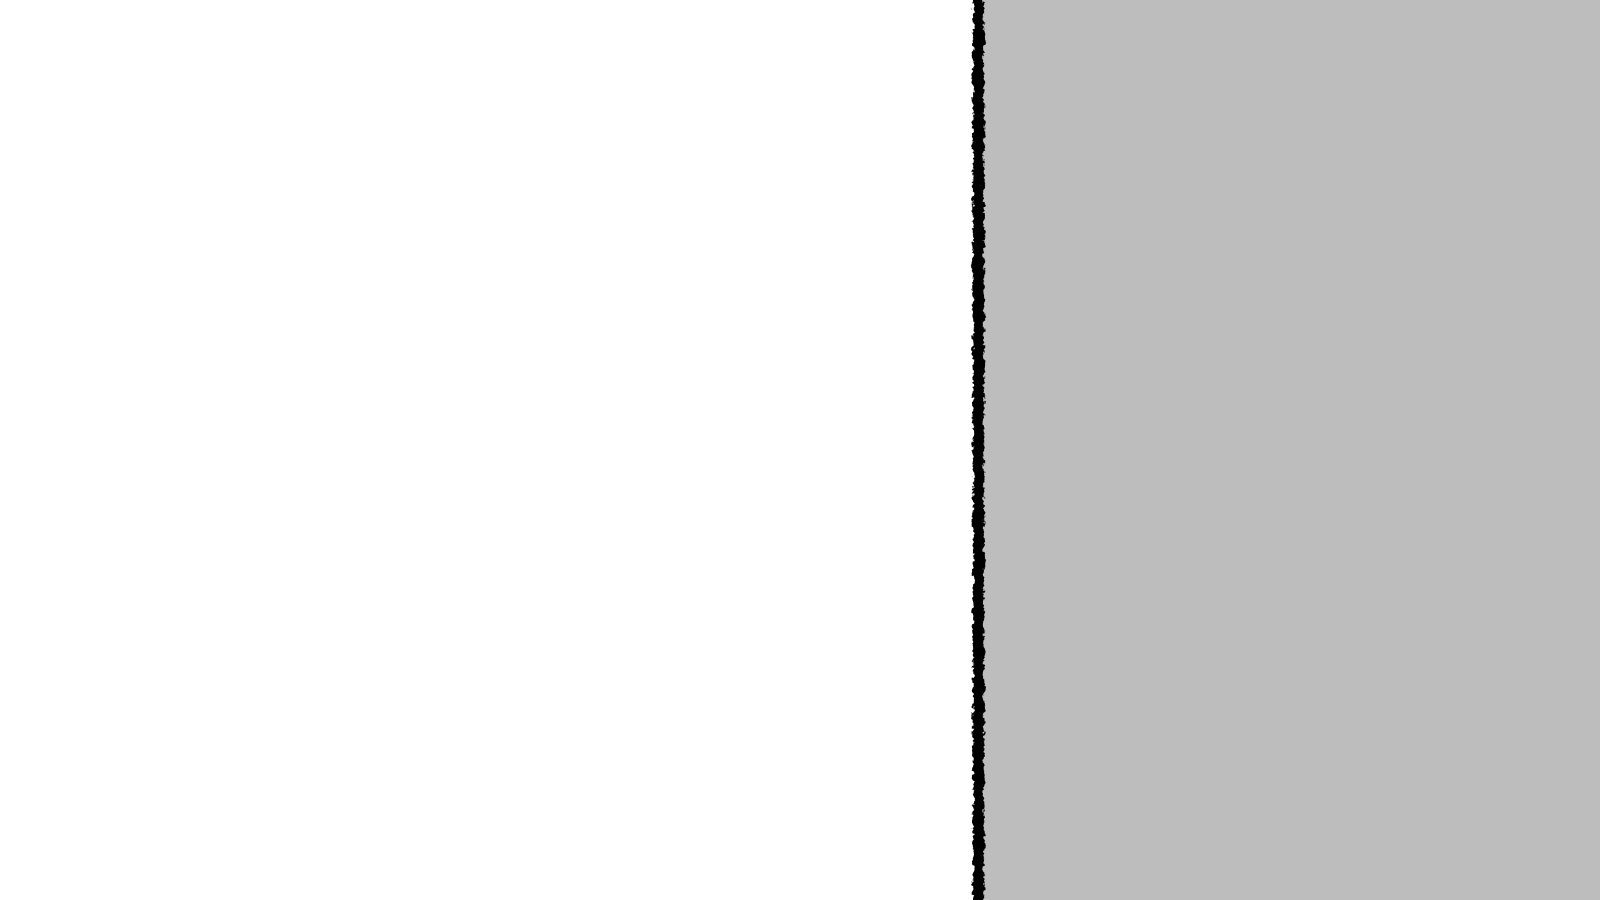
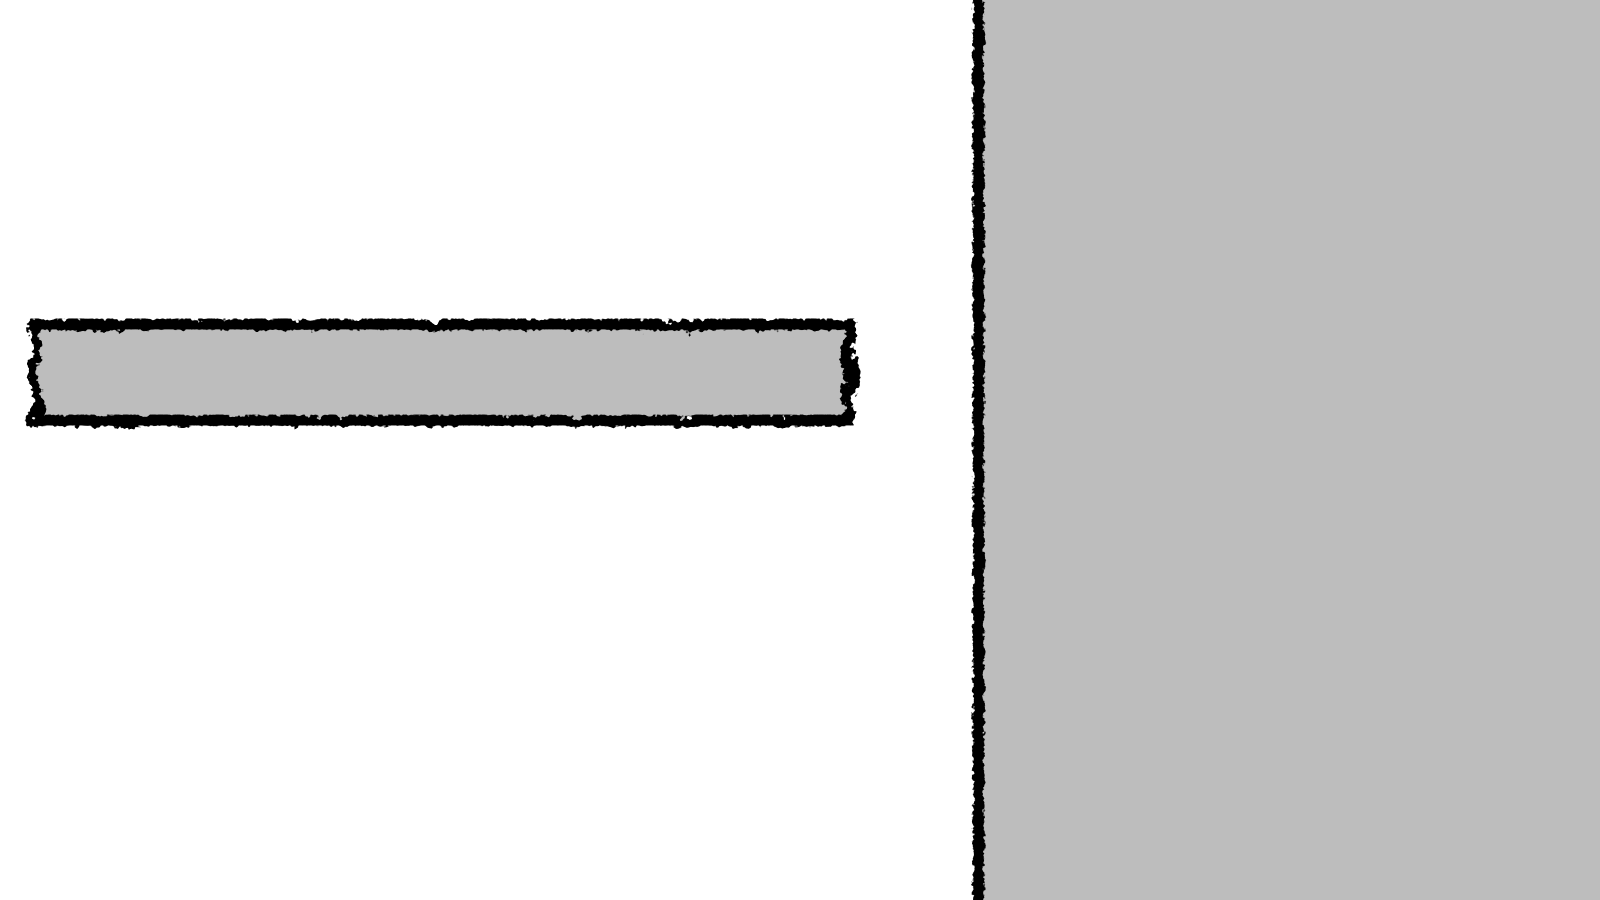
Menu is done

Changed region(s): [[0.0, 0.3422, 0.5625, 0.4978]]

diff --git a/floating_island/Game1.cs b/floating_island/Game1.cs
@@ -18,14 +18,15 @@ namespace floating_island
         private game_world main_world = null;
         private bool saved = false;
         private int backgroundDrawX = 0, Xmovement = -1;
-        private Texture2D back_texture, loading_back, beginTexture, shadows;
-        private button playButton;
-        private bool worldLoaded = false;
+        private Texture2D back_texture, loading_back, beginTexture, shadows, worldSelector;
+        private button playButton, createButton;
+        private bool worldLoaded = false, worldCreated = false;
         private List<string> worlds;
-        private int worldListDrawY = 0;
+        private int worldListDrawY = 0, selectedWorld = 0;
         private TextSpace textSpace;
         private int timeSinceShow = 0;
         private SpriteFont font;
+        private MouseState oldState;
 
         public Game1()
         {
@@ -55,7 +56,9 @@ namespace floating_island
             {
                 worlds[i] = worlds[i].Remove(0, 12);
             }
-            
+
+            oldState = Mouse.GetState();
+
             base.Initialize();
         }
 
@@ -64,16 +67,19 @@ namespace floating_island
             _spriteBatch = new SpriteBatch(GraphicsDevice);
 
             // TODO: use this.Content to load your game content here
-            this.back_texture = this.Content.Load<Texture2D>("main_menu_background");
-            this.loading_back = this.Content.Load<Texture2D>("loadingback");
-            this.beginTexture = this.Content.Load<Texture2D>("firstimage");
-            this.shadows = this.Content.Load<Texture2D>("menuback2");
+            back_texture = this.Content.Load<Texture2D>("main_menu_background");
+            loading_back = this.Content.Load<Texture2D>("loadingback");
+            beginTexture = this.Content.Load<Texture2D>("firstimage");
+            shadows = this.Content.Load<Texture2D>("menuback2");
+            worldSelector = this.Content.Load<Texture2D>("worldselect");
 
             font = Content.Load<SpriteFont>("menu_font");
 
-            this.textSpace = new TextSpace(40, 330, 515, 65, 20, font);
+            textSpace = new TextSpace(40, 330, 837, 65, 15, font);
 
-            this.playButton = new button(0, 30, 30, 550, 209, this.Content.Load<Texture2D>("playbutton0"), this.Content.Load<Texture2D>("playbutton1"));
+            createButton = new button(0, 30, 500, 550, 209, this.Content.Load<Texture2D>("createbutton0"), this.Content.Load<Texture2D>("createbutton1"));
+            
+            playButton = new button(0, 30, 30, 550, 209, this.Content.Load<Texture2D>("playbutton0"), this.Content.Load<Texture2D>("playbutton1"));
         }
 
         protected override void Update(GameTime gameTime)
@@ -113,7 +119,11 @@ namespace floating_island
                     {
                         if (this.worldLoaded && this.main_world == null)
                         {
-                            this.main_world = new game_world(this.Content, @"info\worlds\world1");
+                            this.main_world = new game_world(this.Content, @"info\worlds\" + worlds[selectedWorld]);
+                        }
+                        else if (worldCreated && main_world == null)
+                        {
+                            main_world = new game_world(Content, @"info\worlds\" + textSpace.currentString);
                         }
                         else
                         {
@@ -128,15 +138,45 @@ namespace floating_island
 
                             if (this.playButton.pressed)
                             {
-                                this.worldLoaded = true;
+                                worldLoaded = true;
+                            }
+
+                            this.createButton.update();
+
+                            if (createButton.pressed && textSpace.currentString.Length > 0)
+                            {
+                                worldCreated = true;
+                                worldLoaded = false;
                             }
 
                             this.textSpace.update(Content);
 
-                            /*if (mouseState.X >= 937)
+                            if (mouseState.X >= 970)
                             {
-                                
-                            }*/
+                                if (mouseState.ScrollWheelValue > oldState.ScrollWheelValue && worldListDrawY < 0)
+                                {
+                                    worldListDrawY += 100;
+
+                                    if (worldListDrawY > 0)
+                                    {
+                                        worldListDrawY = 0;
+                                    }
+                                }
+                                else if (mouseState.ScrollWheelValue < oldState.ScrollWheelValue && worldListDrawY > worlds.Count * -80 + 900)
+                                {
+                                    worldListDrawY-=100;
+                                }
+
+                                if (mouseState.LeftButton == ButtonState.Released && oldState.LeftButton == ButtonState.Pressed)
+                                {
+                                    int tmpw = (mouseState.Y - worldListDrawY) / 80;
+
+                                    if (tmpw >= 0 && tmpw < worlds.Count)
+                                    {
+                                        selectedWorld = tmpw;
+                                    }
+                                }
+                            }
                         }
                     }
                 }
@@ -145,6 +185,8 @@ namespace floating_island
             {
                 this.timeSinceShow++;
             }
+
+            oldState = mouseState;
 
             base.Update(gameTime);
         }
@@ -159,19 +201,26 @@ namespace floating_island
             {
                 if (this.main_world == null)
                 {
-                    if (!this.worldLoaded)
+                    if (!this.worldLoaded && !this.worldCreated)
                     {
                         _spriteBatch.Draw(this.back_texture, new Vector2(this.backgroundDrawX, 0), Color.White);
 
                         _spriteBatch.Draw(shadows, new Vector2(0, 0), Color.White);
 
-                        this.playButton.draw(_spriteBatch);
+                        playButton.draw(_spriteBatch);
+
+                        createButton.draw(_spriteBatch);
 
                         textSpace.draw(_spriteBatch);
 
                         for(int i=0; i<worlds.Count; i++)
                         {
-                            _spriteBatch.DrawString(font, worlds[i], new Vector2(1000, i * 80 + worldListDrawY), Color.Black);
+                            if (selectedWorld == i)
+                            {
+                                _spriteBatch.Draw(worldSelector, new Vector2(975, i * 80 + worldListDrawY), Color.White);
+                            }
+
+                            _spriteBatch.DrawString(font, worlds[i], new Vector2(990, i * 80 + worldListDrawY), Color.Black);
                         }
                     }
                     else
